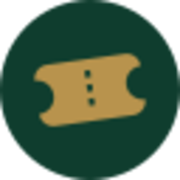
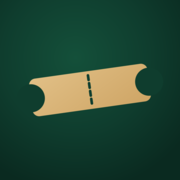
Renueva los iconos de la app y ajusta tamanos en ApuestaItem
- icon-192.png, icon-512.png, apple-touch-icon.png reemplazados por el
  ticket sobre fondo verde liso (sin el aro dorado ni el texto, eso solo
  va en splash-badge.png); nuevo icon-1024.png anadido tambien al
  manifest.json.
- ApuestaItem: nombre de la casa mas pequeno (text-sm, entre las
  etiquetas y el evento); fila de Apostado/Cuota total/Beneficio un poco
  mas grande (text-sm).

diff --git a/src/components/ApuestaItem.jsx b/src/components/ApuestaItem.jsx
@@ -66,7 +66,7 @@ export default function ApuestaItem({
         <div className="flex items-center gap-2 flex-wrap">
           <span className="font-mono text-xs text-slate">{apuesta.fecha}</span>
           <span className="text-xs text-slate">·</span>
-          <span className="text-base font-bold text-ink">{apuesta.casa}</span>
+          <span className="text-sm font-bold text-ink">{apuesta.casa}</span>
           <span className="text-xs font-medium px-2 py-0.5 rounded-full bg-paperDim text-slate">
             {apuesta.deporte}
           </span>
@@ -126,7 +126,7 @@ export default function ApuestaItem({
           </div>
         )}
 
-        <div className="flex flex-wrap items-center gap-x-3 gap-y-1 mt-1 font-mono text-xs text-slate">
+        <div className="flex flex-wrap items-center gap-x-3 gap-y-1 mt-1 font-mono text-sm text-slate">
           <span>Apostado: {apuesta.stake.toFixed(2)}€</span>
           <span>Cuota total: {cuotaTotal.toFixed(2)}</span>
           {apuesta.resultado === "cashout" && (

diff --git a/CLAUDE.md b/CLAUDE.md
@@ -198,6 +198,16 @@ antes de pasar a la siguiente.
   si ganada, roja si perdida, gris si nula, azul si cash out. En
   combinadas, como la app no guarda resultado por selección, las tres
   cuotas comparten el color del resultado final de la apuesta completa.
+  Ronda posterior de ajuste fino: el nombre de la casa baja a `text-sm`
+  (entre las etiquetas pequeñas de Fútbol/Ganada y el evento, que se queda
+  como el más grande), y la fila de Apostado/Cuota total/Beneficio sube de
+  `text-xs` a `text-sm`.
+- **Iconos de la app renovados** (no era una fase del guion, petición
+  directa): `icon-192.png`, `icon-512.png`, `apple-touch-icon.png` (180×180)
+  y uno nuevo `icon-1024.png` (añadido también a `manifest.json`) — mismo
+  ticket que el badge de la pantalla de carga, pero sobre fondo verde
+  cuadrado liso, sin el aro dorado ni el texto "Hall of Bets" (ese solo va
+  en `splash-badge.png`, que es un archivo aparte).
 - **Pantalla de carga (splash)** (no era una fase del guion, petición
   directa): `SplashScreen.jsx`, a pantalla completa con fondo `#0A2A20` y
   el badge `public/splash-badge.png` centrado (distinto del icono limpio
